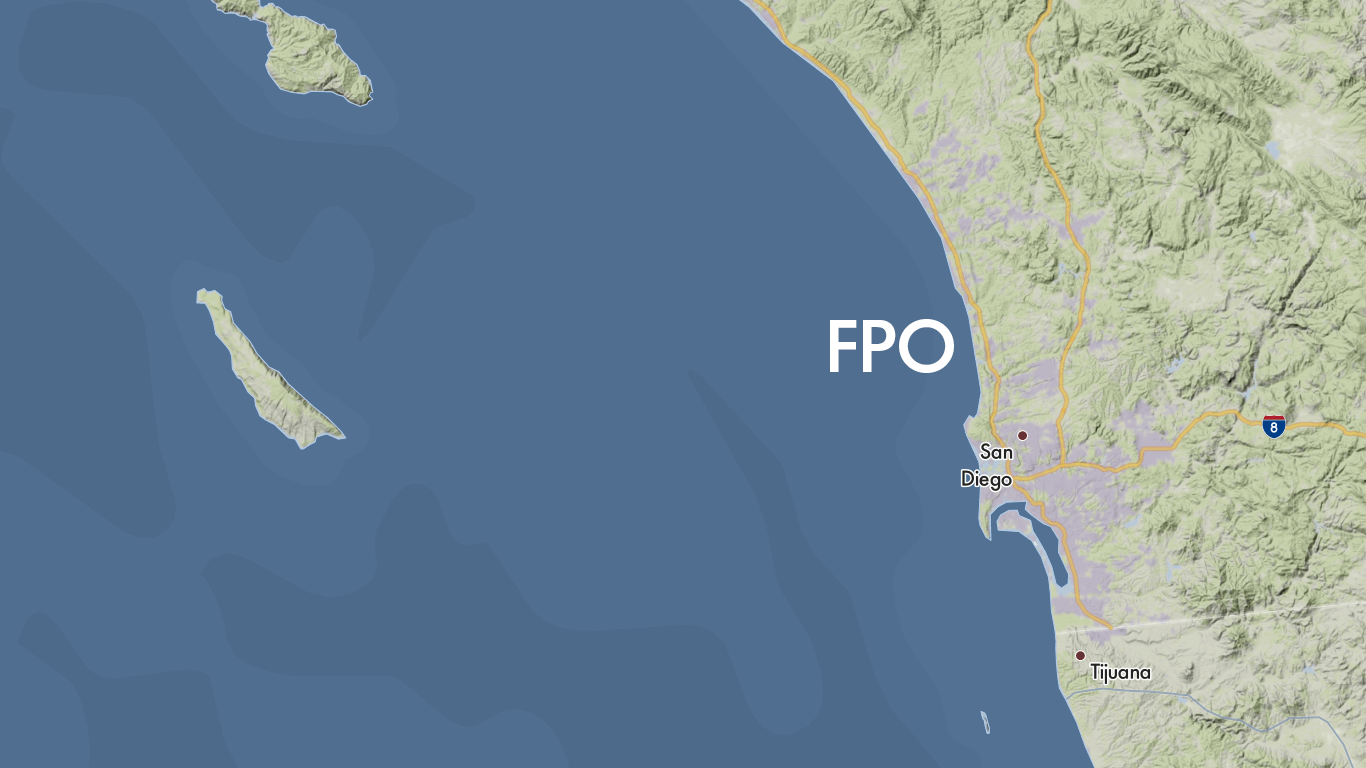
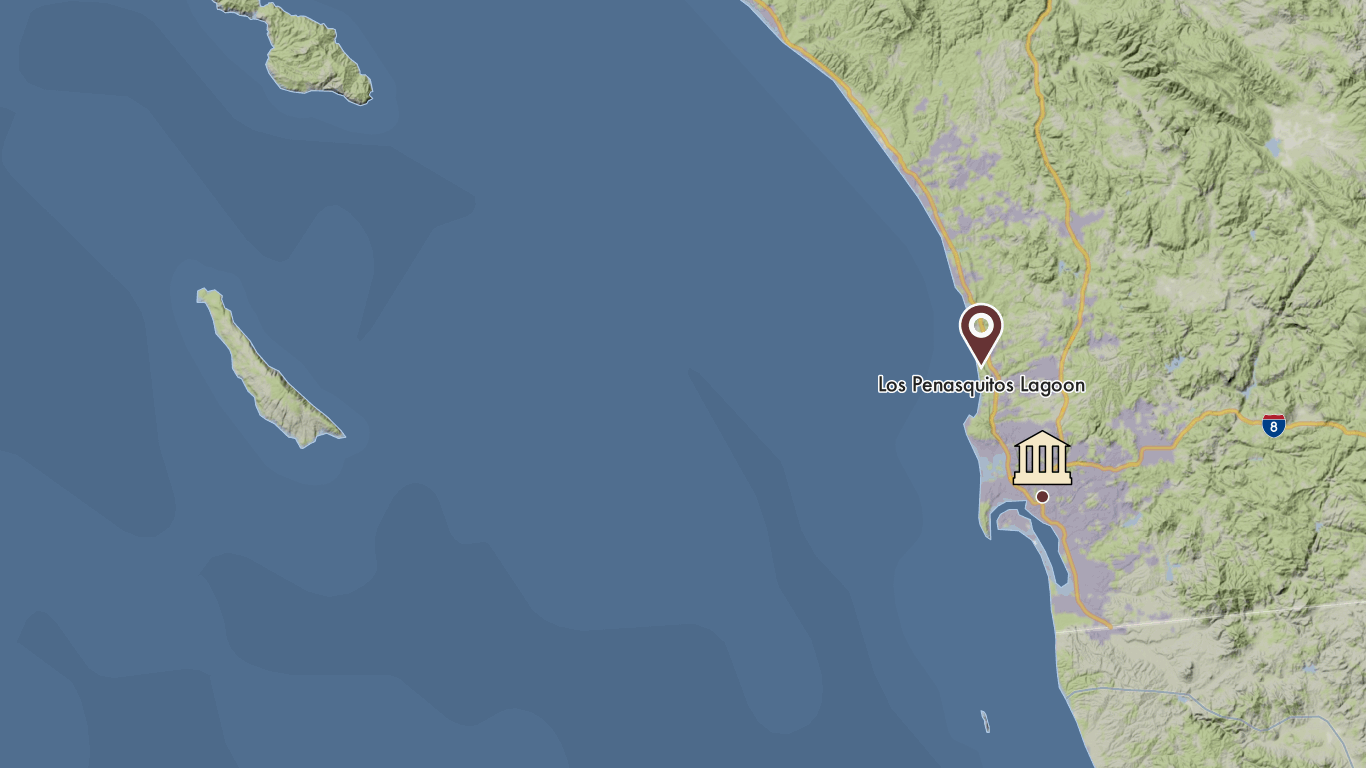
New wetlands background map

diff --git a/client/stylesheets/style.less b/client/stylesheets/style.less
@@ -600,7 +600,7 @@ a.btn:active {
  * 0316 - Wetlands - Background images
  */
 .map-wet-where {
-  background-image: url("/images/wet-where-map.png");
+  background-image: url("/images/wet-where-map-v03.png");
 }
 
 .map-wet-wetlands {
